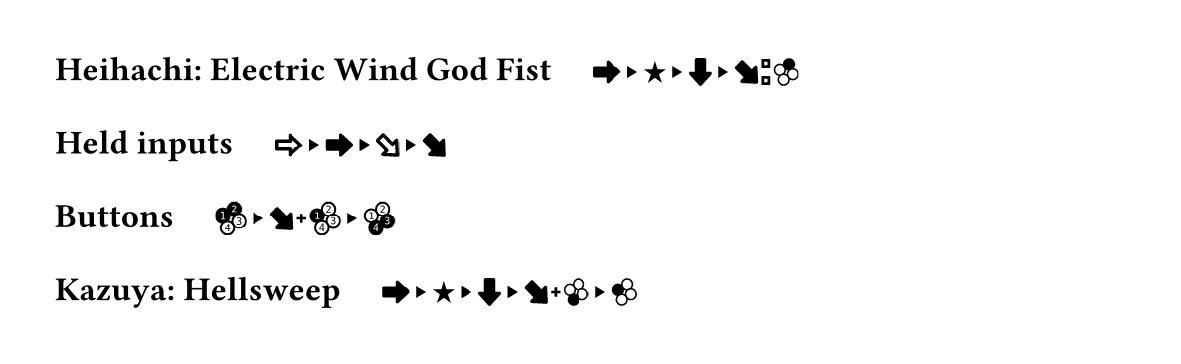
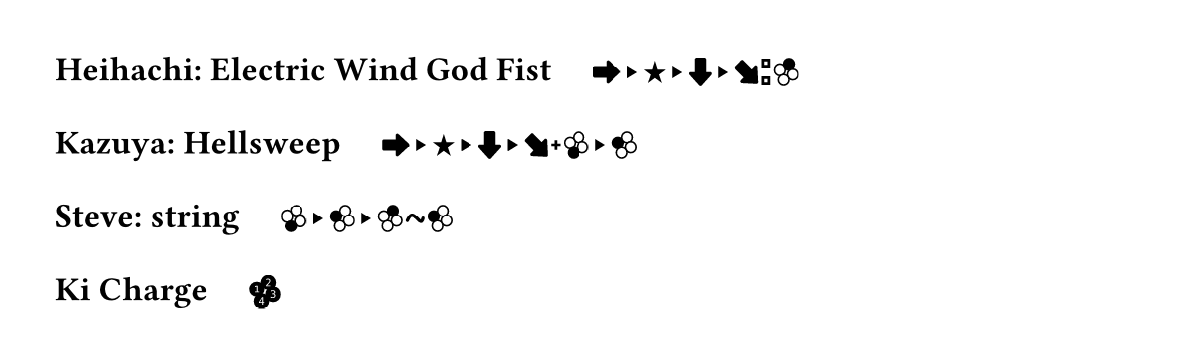
Match README examples to rendered preview

Changed region(s): [[0.061, 0.7555, 0.5487, 0.8462], [0.0305, 0.3626, 0.5487, 0.4533], [0.0305, 0.544, 0.3963, 0.6648]]

diff --git a/README.md b/README.md
@@ -12,19 +12,20 @@ Before publication, copy `lib.typ` into your project and import the local file. 
 ```typst
 #import "@preview/tekken:0.1.0": tekken
 
-Heihachi electric: #tekken("f, n, d, df:2")
-Kazuya Hellsweep: #tekken("f, n, d, df+4, 1")
+*Heihachi: Electric Wind God Fist* #h(1em) #tekken("f,n,d,df:2")
 
-#tekken("df+1, 1, 2", display: true)
-#tekken("1+2", numbers: true)
-#tekken("f, \"Side Step\", 1")
+*Kazuya: Hellsweep* #h(1em) #tekken("f,n,d,df+4,1")
+
+*Steve: string* #h(1em) #tekken("4,1,2~1")
+
+*Ki Charge* #h(1em) #tekken("1+2+3+4", numbers: true)
 ```
 
 ![Rendered examples of Tekken move notation](docs/preview.png)
 
 See the [full example PDF](example.pdf), including inline wrapping.
 
-Move references: [Heihachi’s Electric Wind God Fist](https://tekkendocs.com/t8/heihachi/f%2Cn%2Cd%2Cdf%3A2) and [Kazuya’s Hellsweep](https://junkfoodarcades.com/pages/move-lab/electric-wind-god-fist).
+Move references: [Heihachi’s Electric Wind God Fist](https://tekkendocs.com/t8/heihachi/f%2Cn%2Cd%2Cdf%3A2), [Kazuya’s Hellsweep](https://junkfoodarcades.com/pages/move-lab/electric-wind-god-fist), [Steve’s string](https://tekkendocs.com/steve/guide), and [Ki Charge](https://www.kicharge.com/).
 
 ## Notation
 
